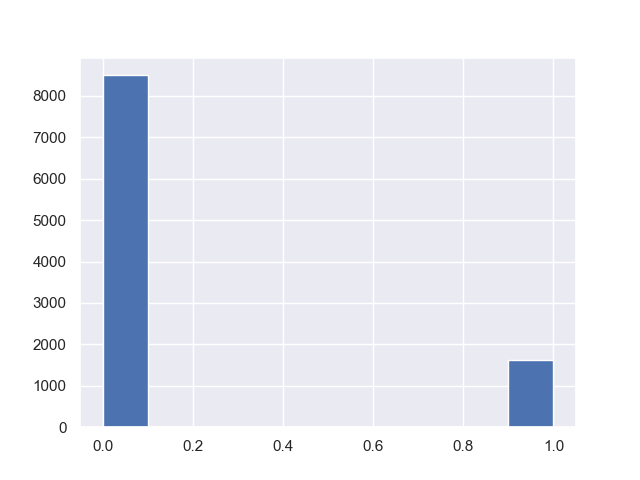
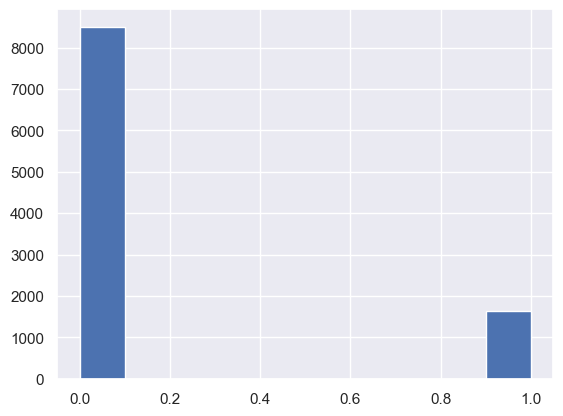
fix: Images margins

diff --git a/churn_library.py b/churn_library.py
@@ -1,5 +1,6 @@
 """Functions to perform analysis on customer churn"""
 
+import shap
 import logging
 from sklearn.metrics import plot_roc_curve, classification_report
 from sklearn.model_selection import GridSearchCV
@@ -55,6 +56,7 @@ def perform_eda(data_frame):
         stat="density",
         linewidth=0)
     save_image('images/eda/Total_transactions.png')
+
 
 
 def encoder_helper(data_frame, category_lst):
@@ -203,10 +205,16 @@ def feature_importance_plot(model, X_data, output_pth):
     # Save figure to disk
     save_image(output_pth)
 
+def analyze_classes_per_feature(model, X_test):
+    explainer = shap.TreeExplainer(model)
+    shap_values = explainer.shap_values(X_test)
+    fig = shap.summary_plot(shap_values, X_test, plot_type="bar", show=False)
+    plt.margins()
+    save_image('images/results/churn_vs_no_churn.png')
 
 def save_image(path):
     """Save pyplot images to disk"""
-    plt.savefig(path)
+    plt.savefig(path, bbox_inches='tight')
     plt.close(None)
 
 
@@ -318,3 +326,4 @@ def train_models(X_train, X_test, y_train, y_test):
         'images/results/feature_importance_plot.png')
 
     save_roc_curves(lrc, best_random_forest_model, X_test, y_test)
+    analyze_classes_per_feature(best_random_forest_model, X_test)
